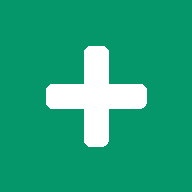
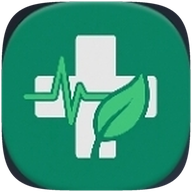
Add files via upload

diff --git a/index.html b/index.html
@@ -3,7 +3,7 @@
 <meta name="viewport" content="width=device-width, initial-scale=1, viewport-fit=cover">
 <title>ই-হেলথ কেয়ার</title>
 <link href="https://fonts.googleapis.com/css2?family=Noto+Sans+Bengali:wght@400;700;800&display=swap" rel="stylesheet">
-<link rel="manifest" href="manifest.json"><meta name="theme-color" content="#059669"><link rel="apple-touch-icon" href="icon-192.png"><link rel="stylesheet" href="style.css"></head><body>
+<link rel="manifest" href="manifest.json"><meta name="theme-color" content="#059669"><link rel="apple-touch-icon" href="apple-touch-icon.png"><link rel="icon" href="icon-192.png"><link rel="stylesheet" href="style.css"></head><body>
 <header><div class="lg">+</div><div><h1>ই-হেলথ কেয়ার</h1><small id="sub"></small></div><div class="sp"></div><button class="pill" id="lg"></button><button class="pill" id="st">⚙</button></header>
 <main id="m"></main><button id="fab"></button><nav id="nv"></nav><div id="ov"></div>
 <script src="script.js"></script><script>if("serviceWorker" in navigator)addEventListener("load",()=>navigator.serviceWorker.register("sw.js").catch(()=>{}))</script></body></html>

diff --git a/sw.js b/sw.js
@@ -1,4 +1,4 @@
-const C='ehc-v4',F=['./','index.html','style.css','script.js','banner.jpg','manifest.json','icon-192.png','icon-512.png'];
+const C='ehc-v5',F=['./','index.html','style.css','script.js','banner.jpg','manifest.json','icon-192.png','icon-512.png','icon-maskable-512.png','apple-touch-icon.png'];
 self.addEventListener('install',e=>{e.waitUntil(caches.open(C).then(c=>c.addAll(F)));self.skipWaiting()});
 self.addEventListener('activate',e=>{e.waitUntil(caches.keys().then(k=>Promise.all(k.filter(x=>x!=C).map(x=>caches.delete(x)))));self.clients.claim()});
 self.addEventListener('fetch',e=>{if(e.request.method!='GET')return;e.respondWith(fetch(e.request).then(r=>{if(r.ok&&new URL(e.request.url).origin==location.origin){const c=r.clone();caches.open(C).then(x=>x.put(e.request,c))}return r}).catch(()=>caches.match(e.request).then(r=>r||caches.match('index.html'))))});
